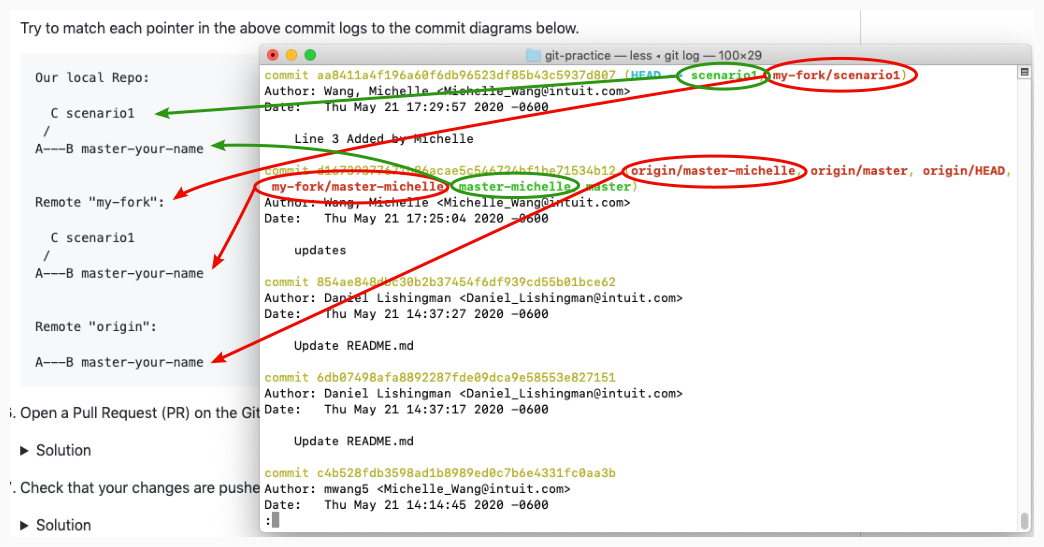
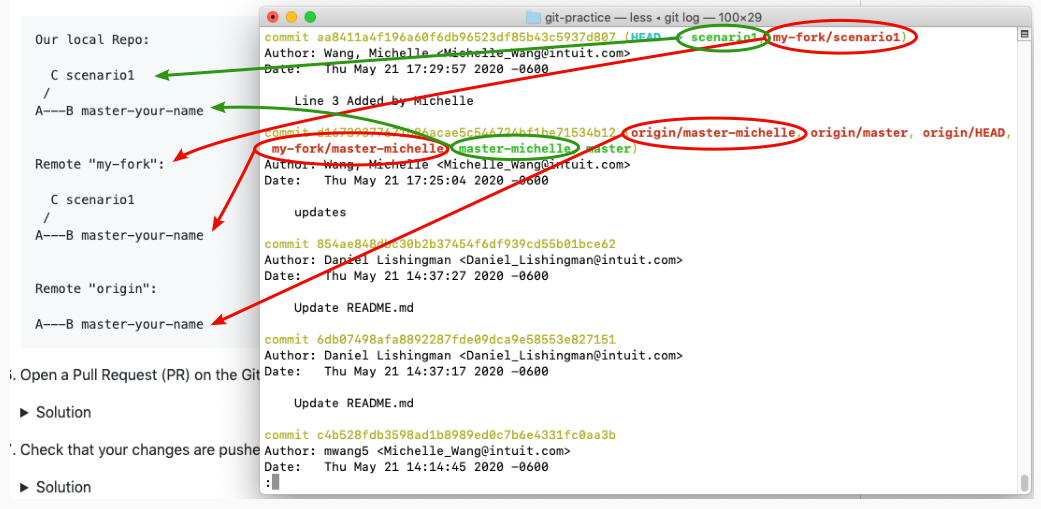
Scenario1 (#27)
* Line 3 Added by Michelle

* add git commit diagram

* update image

* PR diagram

Changed region(s): [[0.0, 0.0, 1.0, 0.9725], [0.0307, 0.943, 0.0922, 0.9725]]

diff --git a/Scenario_1/readme.md b/Scenario_1/readme.md
@@ -127,6 +127,9 @@ What is a feature branch?
     1. Go to `your-fork` (where you pushed your changes) on the Github website. By deafult, this is located at `github.intuit.com/<your-name>/git-practice`
     1. Click "New pull request" (beside "Branch: master-your-name"). Notice this action automatically takes you to the `git-practice` repo in Albertasaurus, as this is where you are trying to merge your code change to. 
     1. Scroll down to see all the file change(s) you have made, and ensure they are correct. Ensure the "head repository" is your your fork, the "base repository" is Albertasaurus/git-practice, and that the compared and base branches are both `master-your-name`.
+
+        ![Git PR](img/PR.png)
+
     1. Click the green "Create pull request" button. Add a descriptive title and description illustrating the nature of your code change if you wish. Once all checks have passed, choose "Squash and merge" from the dropdown beside "Merge pull request", then "Confirm merge". 
 
         "[Squash and merge](https://github.blog/2016-04-01-squash-your-commits/#enter-commit-squashing)" takes all the commits pushed to `my-fork` and pushes them into `master-your-name` in Albertasaurus as one single commit.
@@ -142,7 +145,7 @@ What is a feature branch?
     $ git pull
     ```
 
-    Check your commit logs 
+    Check your commit logs, and ensure they match the commit diagram.
     ```console
     $ git log
     ```
